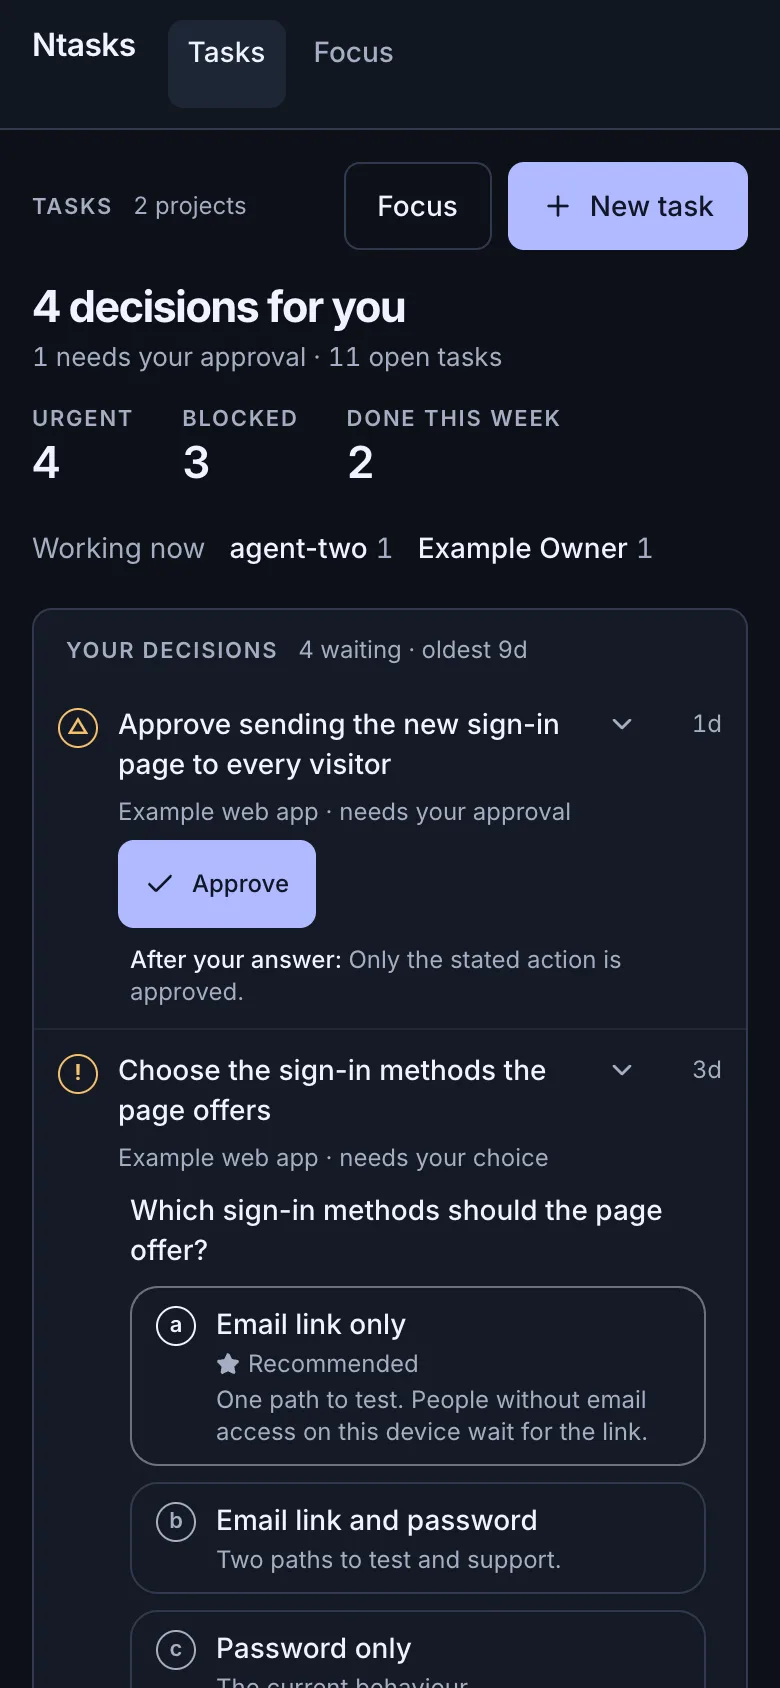
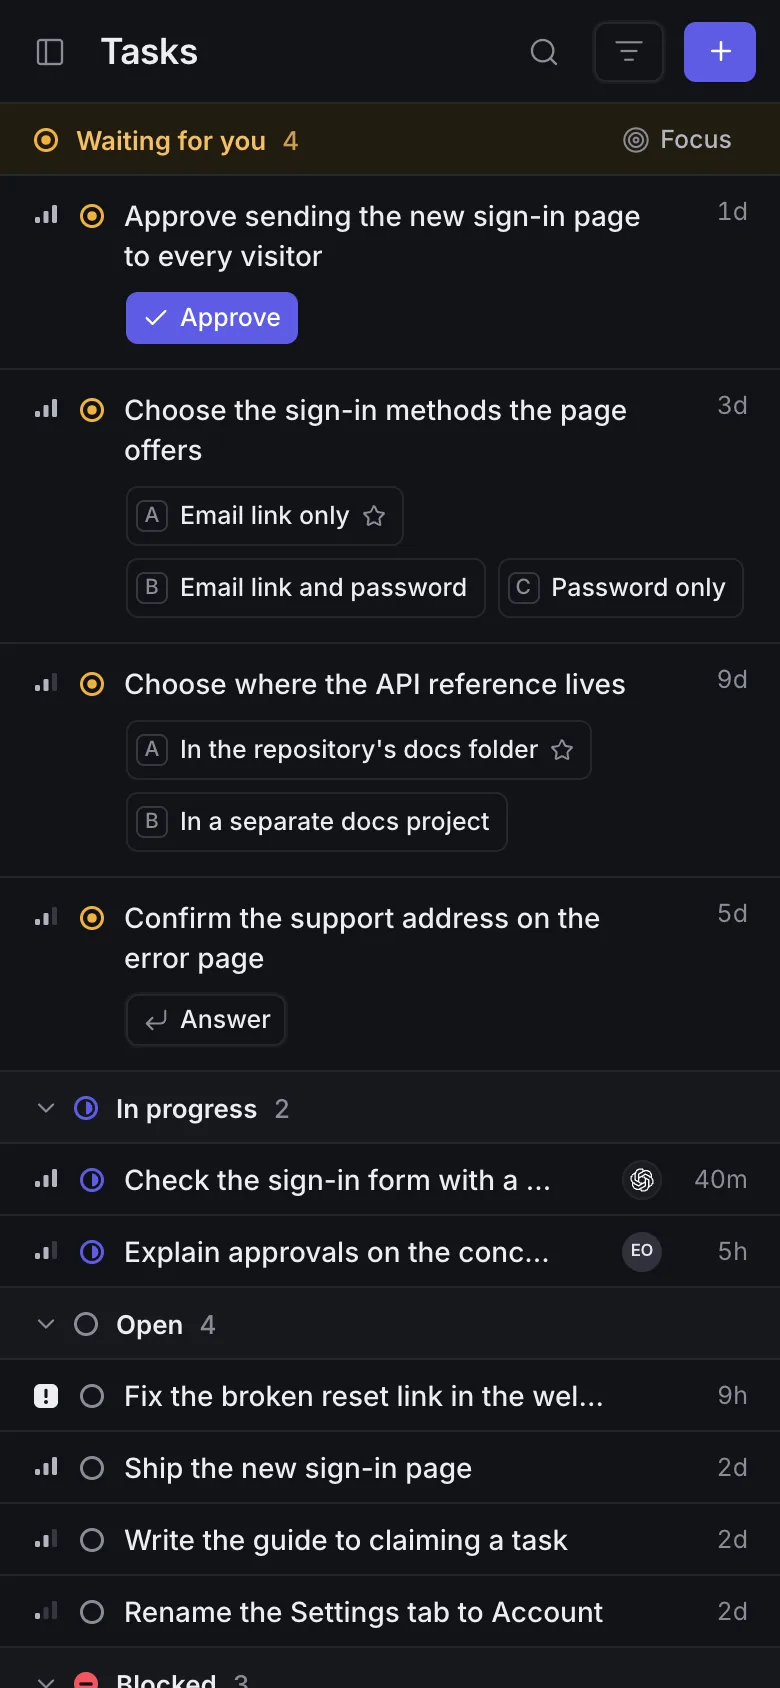
docs: show the grouped board, and record the rules it added to the system
The README's board and phone pictures are drawn again from the new board,
the board at 1100 pixels wide, with alt text that says what they show.
docs/design.md adds Select, keys hidden from screen readers and named with
aria-keyshortcuts, a menu item that keeps its menu open, and a decision's
options taking their own line below 1240 pixels; the gallery shows Select.

Refs: ro-t66y.30.13

diff --git a/tools/screenshots/src/capture.ts b/tools/screenshots/src/capture.ts
@@ -43,8 +43,8 @@ interface Shot {
 }
 
 const SHOTS: readonly Shot[] = [
-  // Tall enough to reach past the decisions into the first rows of the task list.
-  { name: 'board', address: '/tasks', width: 1280, height: 1520, scale: 1.5, ready: '[data-task-row]' },
+  // Tall enough to show every group, Waiting for you to Done.
+  { name: 'board', address: '/tasks', width: 1100, height: 960, scale: 1.5, ready: '[data-task-row]' },
   {
     name: 'task',
     address: '/tasks/web-b2r6',
@@ -53,7 +53,7 @@ const SHOTS: readonly Shot[] = [
     scale: 1.5,
     ready: '[data-markdown] pre .hljs-keyword',
   },
-  { name: 'phone', address: '/tasks', width: 390, height: 844, scale: 2, ready: '[data-page-answer]' },
+  { name: 'phone', address: '/tasks', width: 390, height: 844, scale: 2, ready: '[data-task-row]' },
   // docs/design.md shows it 800 pixels wide, as the README shows the desktop shots.
   {
     name: 'design',

diff --git a/docs/design.md b/docs/design.md
@@ -301,9 +301,11 @@ set.
 
 A key: 18 px tall, 11 px text in Text 3, a Border strong ring, 4 px corners.
 `size="sm"` (16 px) sits inside segmented options. On a primary button it is
-white on a translucent white fill.
+white on a translucent white fill. A key is drawn for the eye and hidden from
+screen readers, so it never joins the control's name; the control states its
+key with `aria-keyshortcuts` (`IconButton` does this from `shortcut`).
 
-### Field, Input and Textarea (`field.tsx`)
+### Field, Input, Textarea and Select (`field.tsx`)
 
 A field is 30 px tall (36 px on a touch screen), Background with a Border
 ring, 13 px text and a Text 3 placeholder. `Input` takes an `icon` at the
@@ -319,13 +321,15 @@ start and an `end`, such as the `Kbd` of the key that focuses it.
 field's label ends in an asterisk and its control has `required` and
 `aria-required`; other fields carry no mark and are never labelled optional.
 `error` is tied to the control with `aria-describedby` and sets
-`aria-invalid`.
+`aria-invalid`. `Select` is a native choice among a few fixed values, drawn
+like a field with the theme's chevron, as the board's Filter menu uses it.
 
 ### Menu (`menu.tsx`)
 
 A list of actions on a popover, 232 px wide: each item is a 15 px icon in
 Text 3, a label and its key, 30 px tall; `MenuSeparator` divides groups; an
-item with `submenu` ends in a chevron. On open, focus goes to the first item.
+item with `submenu` ends in a chevron and keeps the menu open, and so does
+an item with `keepOpen`, such as Back. On open, focus goes to the first item.
 ↑ and ↓ move, Enter runs the focused item, an item's letter runs it directly,
 and Escape closes the menu. `MenuPanel` draws the list in place, without the
 popover.
@@ -363,7 +367,9 @@ ellipsis), `RowMeta` facts (checks `1/3`, comments, `Waits on web-k3m9.2`,
 `RowActions` (Claim, the row's menu) show while the row is hovered or holds
 focus, and never on a phone; every one is also in the row's menu. A waiting
 row puts its answer in `RowAnswer`: Approve, a `Segmented` choice, or
-Answer.
+Answer. A row whose answer is a choice is `answer="wide"`: below 1240 px wide
+its options take a line of their own under the title, so the title is never
+cut to make room for them.
 
 `GroupHeader` heads a group: its status mark, its name and its count on
 Surface, 36 px. The Waiting for you group is Waiting text on Waiting soft. A
@@ -444,7 +450,6 @@ Each action's key:
 | `A` | Assign to |
 | `P` | Priority |
 | `Z` | Park |
-| `⌘ .` | Copy the task's id |
 | `a` to `f` | Pick a decision's option, where a decision has focus |
 | `→` | Skip a decision on the Focus page |
 | `Esc` | Close a menu, a popover or the composer |

diff --git a/README.md b/README.md
@@ -32,11 +32,11 @@ Screenshots from the web app's example data.
 
 <picture>
   <source media="(prefers-color-scheme: dark)" srcset="docs/images/board-dark.webp">
-  <img src="docs/images/board-light.webp" width="800" alt="The Tasks board. Its heading reads 4 decisions for you, beside counts of urgent, blocked and done tasks. Below it, the four decisions: an approval with an Approve button, two choices showing their options, and a question with an Answer button. Under them, filters and the list of all tasks, one row each with its id, project, assignee, age and state.">
+  <img src="docs/images/board-light.webp" width="800" alt="The Tasks board beside the sidebar, which lists Waiting for you, Tasks, Focus, the two projects and the people with open work. The board's first group, Waiting for you, holds four rows answered in place: an approval with an Approve button, two decisions with their options under their titles, and a question with an Answer button. Below it, the groups In progress, Open, Blocked, Parked and Done, one line per task with its priority, id, status, title, facts such as Bug, Epic progress or what it waits on, its holder and its age.">
 </picture>
 
-The board: decisions waiting on you first, answerable in place, then every
-task.
+The board: what waits for you first, answered in place, then every task by
+status.
 
 <picture>
   <source media="(prefers-color-scheme: dark)" srcset="docs/images/task-dark.webp">
@@ -47,7 +47,7 @@ A task page. Text is Markdown; task ids link to their tasks.
 
 <picture>
   <source media="(prefers-color-scheme: dark)" srcset="docs/images/phone-dark.webp">
-  <img src="docs/images/phone-light.webp" width="320" alt="The Tasks board at phone width: the counts sit under the heading, and the decisions fill the width of the screen.">
+  <img src="docs/images/phone-light.webp" width="320" alt="The Tasks board at phone width: the sidebar folds behind a button in the top bar, and each row waiting for you puts its answer on a line under its title.">
 </picture>
 
 The board at phone width.

diff --git a/tools/screenshots/README.md b/tools/screenshots/README.md
@@ -14,7 +14,7 @@ It writes WebP files to `docs/images/`:
 
 | File | Shows |
 |---|---|
-| `board-light.webp`, `board-dark.webp` | The Tasks board, 1280 pixels wide: the decisions, then the first rows of the task list |
+| `board-light.webp`, `board-dark.webp` | The Tasks board, 1100 pixels wide: the sidebar, Waiting for you, then every group to Done |
 | `task-light.webp`, `task-dark.webp` | The page of task `web-b2r6`, whose description uses headings, lists, a code block and a task-id link |
 | `phone-light.webp`, `phone-dark.webp` | The Tasks board, 390 pixels wide |
 | `design-light.webp`, `design-dark.webp` | The design gallery at `/design`, 1440 pixels wide and as tall as the page |
